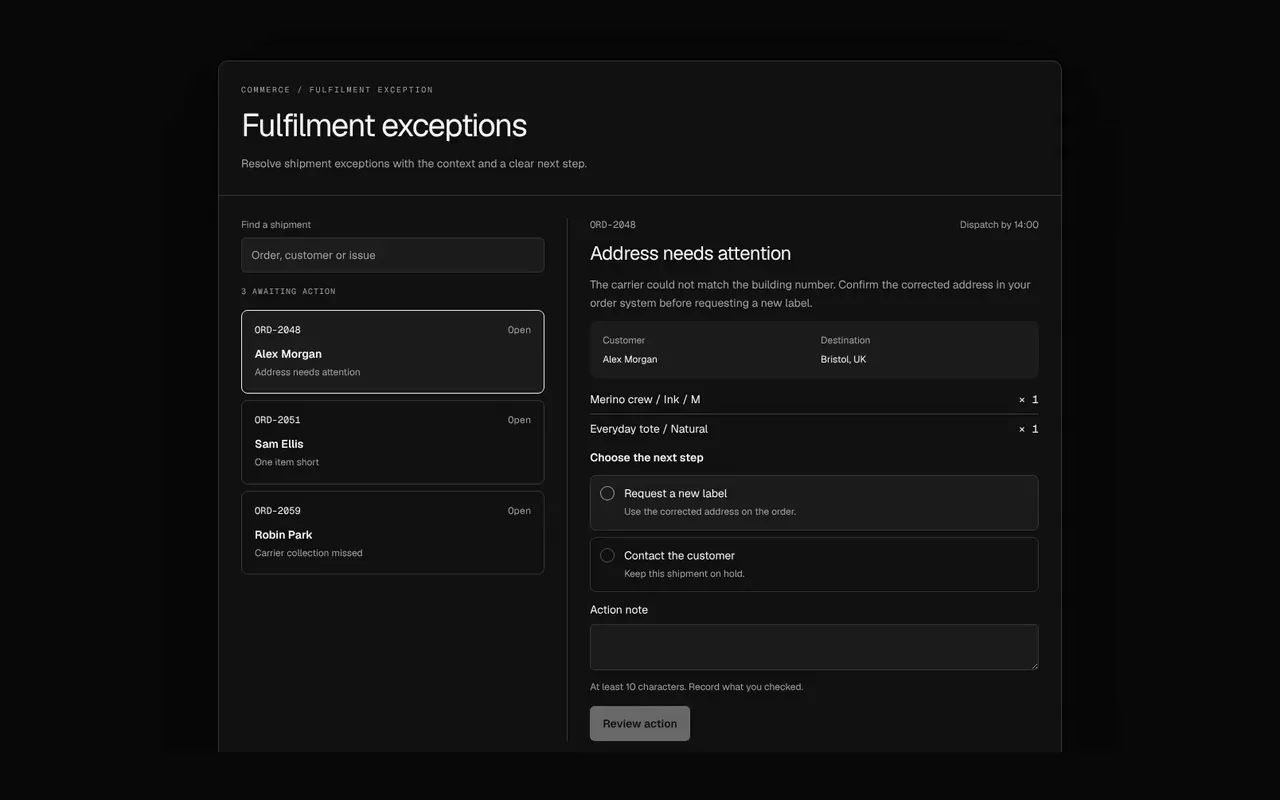
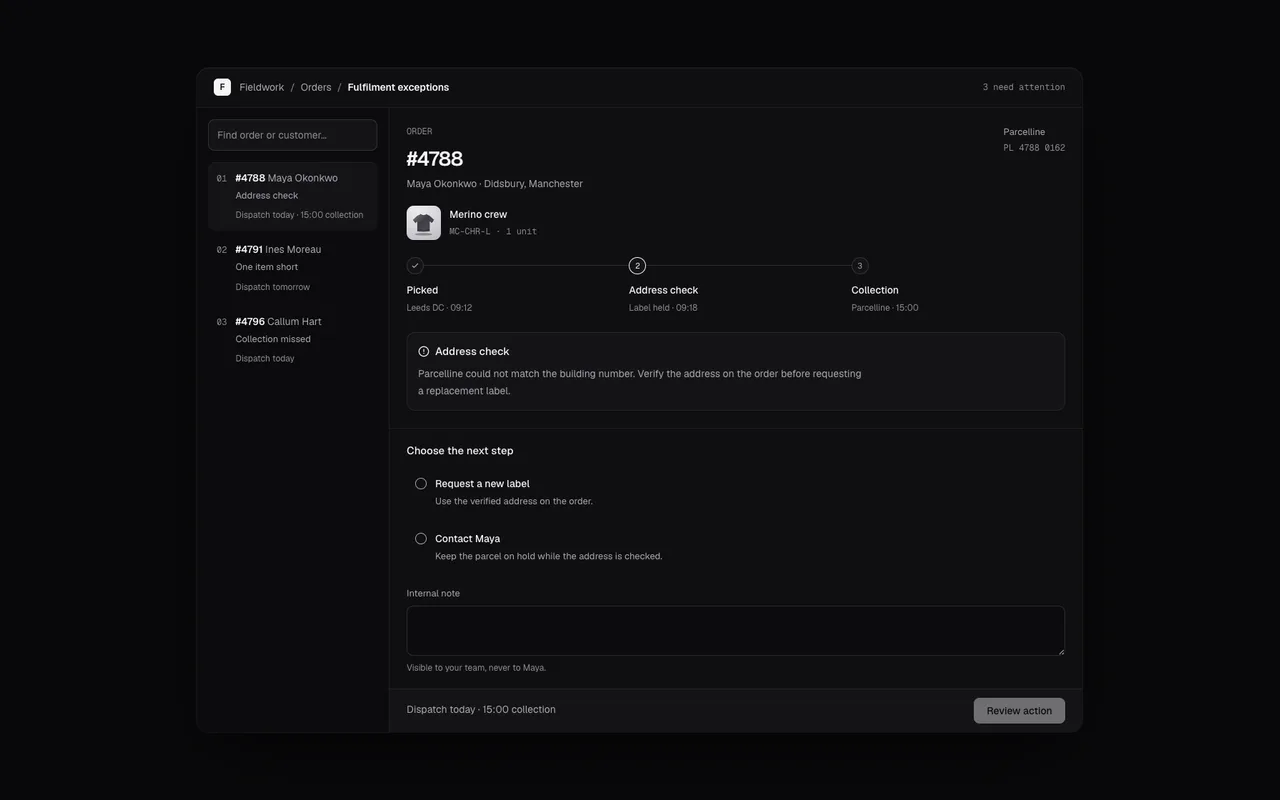
test(commerce-fulfilment-desk): verify retained recovery decisions

diff --git a/docs/review/HANDOFF_TASKS.md b/docs/review/HANDOFF_TASKS.md
@@ -207,6 +207,8 @@ and how to know it's done. Pick any of them up independently. Background, briefs
 
 - Task 1: Purchase Order now has a reviewed 4.1s film showing a third product added, the exact £780.00 review and the settled three-line saved-draft receipt. Measured full-viewport framing keeps every state and the action bar visible, with a matching paired poster. Maximum source gap is 11ms, changed-source delivery 29.9ms and moving-frame p95 20.2ms, with no stalls and every existing guard intact. 120 listed films remain.
 
+- Task 7: Fulfilment Desk is rebuilt around the parcel, carrier route and reviewed recovery decision. Its 23-mount source review and rewritten Next regression cover retained notes/actions, failed retry, pending locks, retired revisions and empty/invalid shipments; the empty-selection crash is fixed. The explicit recorded-request replay, both-theme accessibility, six widths, entrance/state captures, two controls, official audit and measured full-frame poster pass, with strict registry, TypeScript and all 1,063 unit tests. The control runner’s cold robots-route timeout is preserved; its unchanged rerun passes. Its new film joins task 1; 37 components and 12 blocks remain in task 7.
+
 ## Ground rules (read first)
 
 - Two repos. Public: `richawo/Design-components-for-AI-agents` (this one). Pro: `richawo/Design-for-AI`, private, cloned
@@ -224,7 +226,7 @@ and how to know it's done. Pick any of them up independently. Background, briefs
 - Browser checks: `node scripts/check-component.mjs <slug> --base=http://localhost:3100 --no-video --keep-going`
   (screenshots at 1440/768/390 and every control flip; read the screenshots it writes to `test-results/check/<slug>/`).
 
-## 1. Re-record demo videos (120 components)
+## 1. Re-record demo videos (121 components)
 
 Every rebuilt component's poster is current but its catalogue film (`public/previews/<slug>.mp4`) still shows the old
 version. Record them one at a time on an otherwise idle machine; the recorder rejects frame stalls under load.
@@ -243,6 +245,7 @@ slug or per small group). Notes:
 
 Slugs:
 
+`commerce-fulfilment-desk`
 `editor-font-pairing`, `editor-keyframe-track`
 `editor-layer-stack`, `editor-spacing-inspector`, `editor-storyboard-strip`, `editor-version-restore`
 `three-exploded-assembly`, `three-material-inspector`, `agents-budget-guard`, `agents-dependency-board`
@@ -372,15 +375,15 @@ All nine parked rebuilds are shipped in both repos. Their original `_wip/<slug>`
 | finance-budget-variance | Completed 17 October: Next probe, dark/light accessibility, responsive and entrance/state captures, live demo and refreshed poster pass. |
 | finance-cashflow-dashboard | Completed 17 October: weekly balance and in/out bars, movable payments, independent pending saves, invalid-data guards, selected-week list geometry, Next probe/demo, both-theme accessibility, responsive/state/entrance captures and refreshed poster pass. |
 
-## 7. Continue the review (38 components, then 12 blocks)
+## 7. Continue the review (37 components, then 12 blocks)
 
-Same process as the 160 already done: hold each to the first ~100 components' standard. Briefs:
+Same process as the 161 already done: hold each to the first ~100 components' standard. Briefs:
 `docs/review/REVIEW_BRIEF.md`, `docs/review/SUITE_BRIEF.md` for industry components, suite languages in
 `docs/review/suites/`. Work newest first, about four components per batch, and verify each (build, tsc, tests,
 check-component, your own captures of states and mid-entrance frames, a refreshed poster, a rewritten pro-50 probe for
 industry components).
 
-- **Commerce** (copy `suites/commerce.md`): commerce-fulfilment-desk, commerce-operations-dashboard, commerce-return-desk, commerce-variant-stock,
+- **Commerce** (copy `suites/commerce.md`): commerce-operations-dashboard, commerce-return-desk, commerce-variant-stock,
   commerce-catalog-import. `block-commerce-workspace` imports commerce-return-desk: keep its call site working.
 - **Others**: app-permission-matrix, legal-version-history (`suites/legal.md`), hr-capacity-planner (`suites/hr.md`),
   data-query-builder.

diff --git a/docs/review/STATUS.md b/docs/review/STATUS.md
@@ -1,6 +1,6 @@
 # Review status
 
-160 components are rebuilt (or, for a few, polished), verified and committed. For each: whether its demo video
+161 components are rebuilt (or, for a few, polished), verified and committed. For each: whether its demo video
 needs re-recording, whether its poster is current, and the state of its browser regression probe.
 
 - **Video**: `new` means `public/previews/<slug>.mp4` still shows the old version. Re-record serially on a quiet machine:
@@ -174,10 +174,11 @@ remain in place. Measurements, checkout revisions and the investigated package d
 | `fashion-size-guide` | new | current | source-fixture regression/demo, native palettes, both-theme accessibility and responsive/state/entrance captures pass |
 | `fashion-wholesale-order` | new | current | rewritten, passes |
 
-## Commerce suite (6)
+## Commerce suite (7)
 
 | Slug | Video | Poster | Probe |
 | --- | --- | --- | --- |
+| `commerce-fulfilment-desk` | new | current | Rebuilt parcel/route/recovery workflow; 23-mount source review, Next retained-note/retry/pending/revision/empty regression, recorded-request replay, both-theme accessibility, six widths, entrance/state captures, two controls, official audit and measured full-frame poster pass. |
 | `commerce-purchase-order` | current | current | Rebuilt PO document; 22-mount source review, Next exact-cost/retry/pending/supplier regression, three-line saved-draft replay, both-theme accessibility, six widths, entrance/state captures, three controls, official audit and refreshed poster pass; reviewed 4.1s add/review/save film and paired poster are current. |
 | `commerce-promotion-builder` | current | current | Rebuilt offer ticket and exact line-level receipt; 22-mount source review, Next workflow, both-theme accessibility, six widths, entrance/state captures, three controls, official audit and refreshed poster pass; reviewed 4.2s audience/savings/save film and paired poster are current. |
 | `commerce-backorder-allocation` | new | current | rewritten, passes on the Next-backed source-fixture runner |
